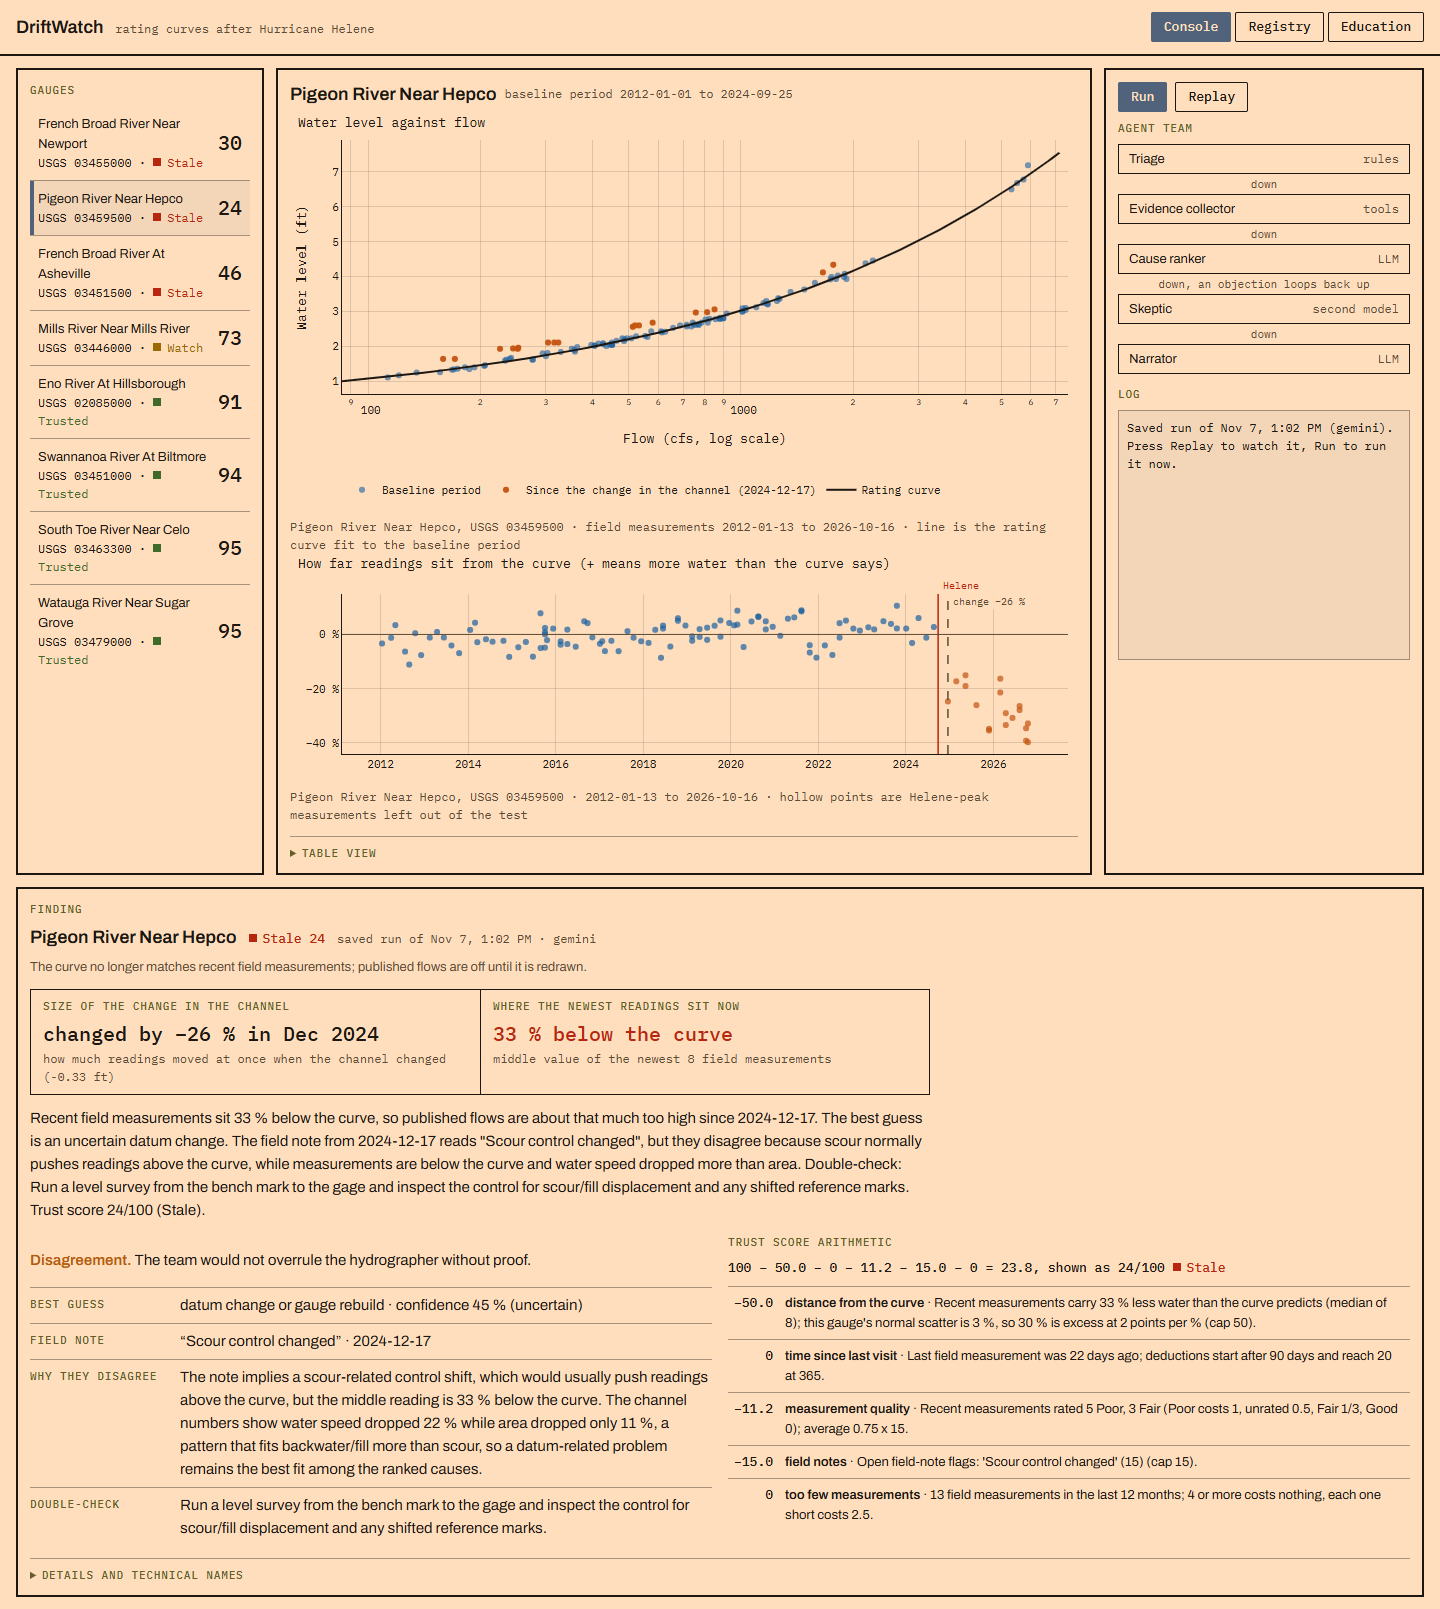
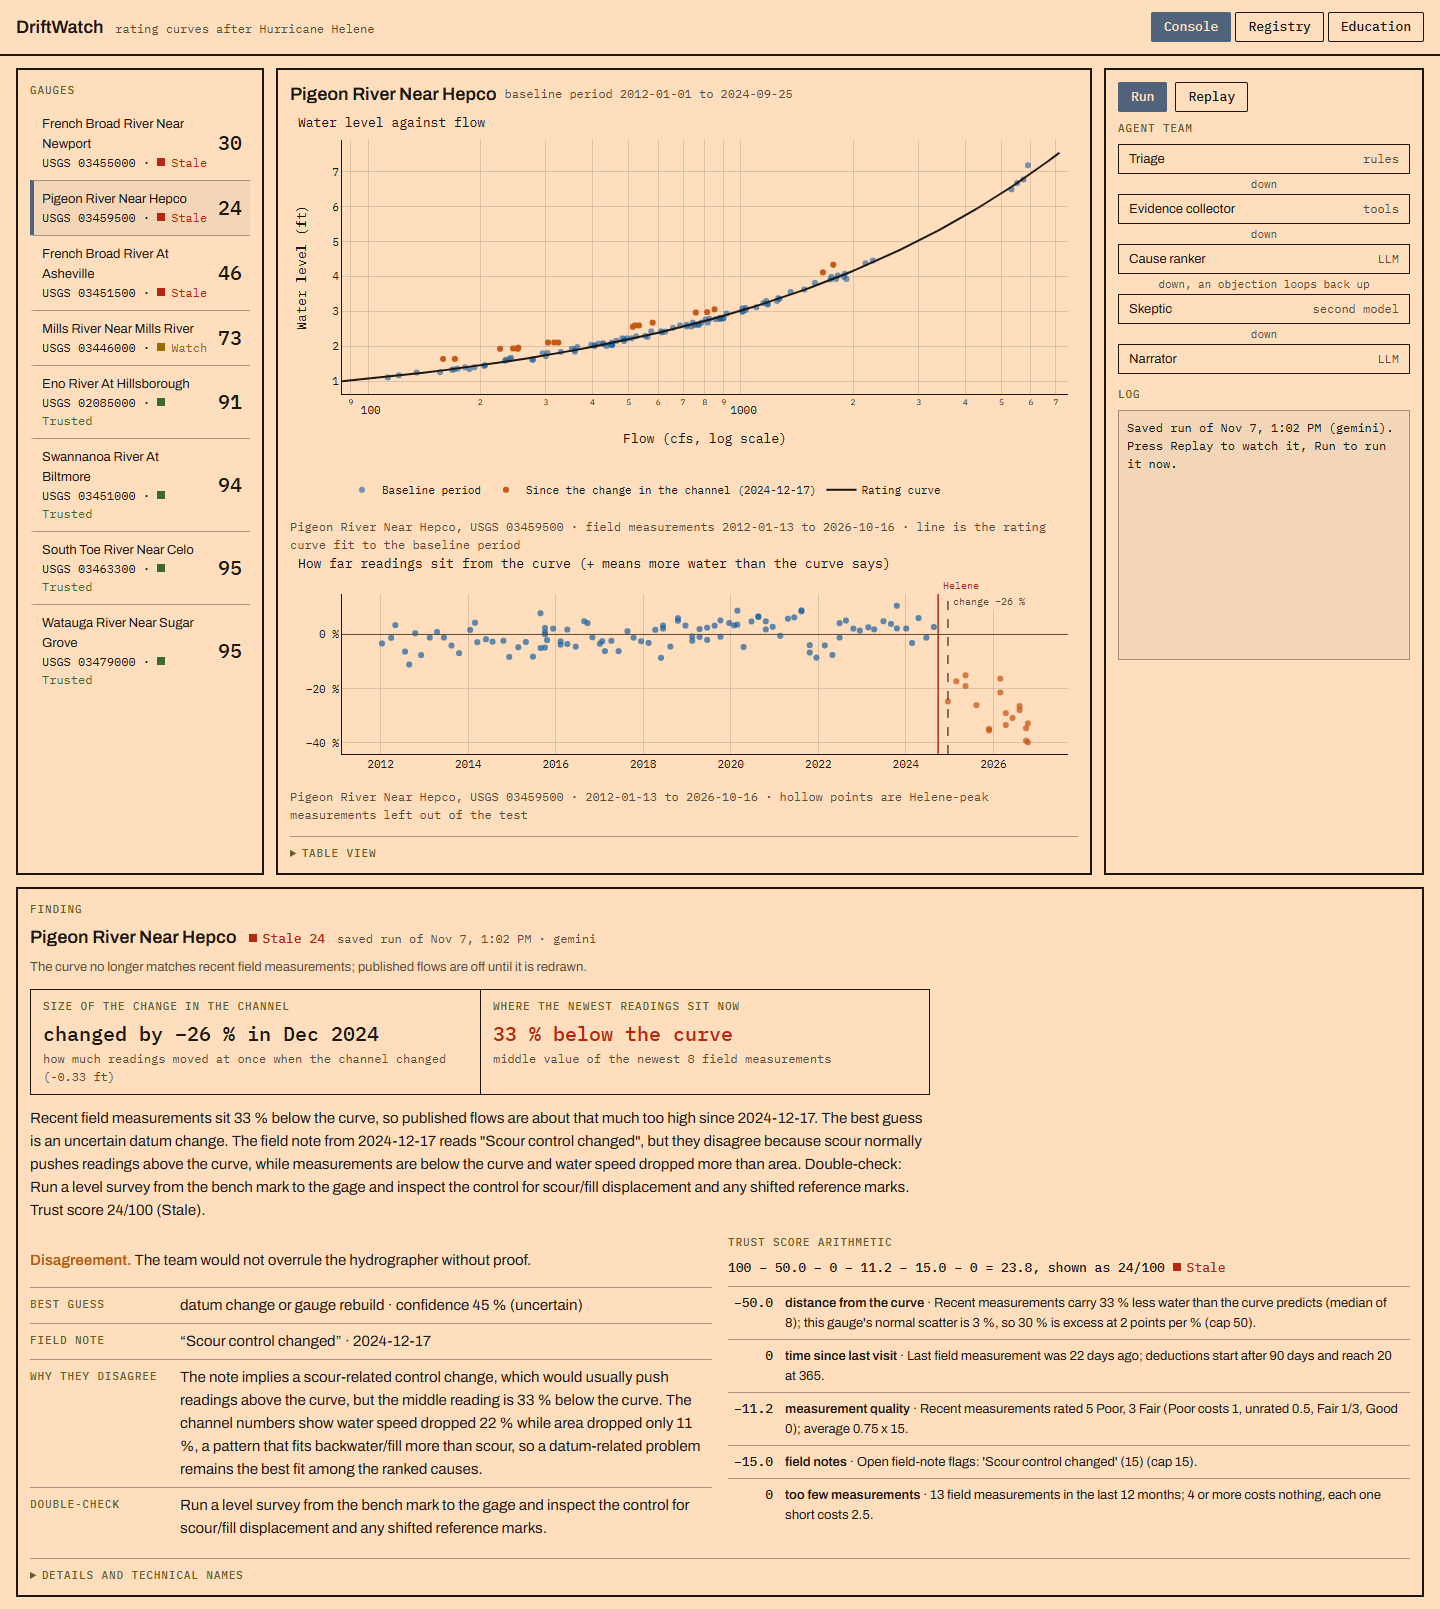
m3-design: review fixes (more plain swaps, selection border, misfit uses trust's recent count) + status

Changed region(s): [[0.0312, 0.0622, 0.1875, 0.4351], [0.125, 0.839, 0.5, 0.9012]]

diff --git a/driftwatch/api/console.html b/driftwatch/api/console.html
@@ -66,7 +66,8 @@ main { display: grid; gap: 12px; padding: 12px 16px;
   font: inherit; color: inherit; cursor: pointer; }
 .gauge:first-child { border-top: 0; }
 .gauge:hover { background: var(--paper-sunk); }
-.gauge.sel { background: var(--paper-sunk); box-shadow: inset 4px 0 0 var(--measured); }
+.gauge { border-left: 4px solid transparent; }
+.gauge.sel { background: var(--paper-sunk); border-left-color: var(--measured); }
 .gauge .nm { flex: 1; min-width: 0; font-size: 13px; line-height: 20px; }
 .gauge .nm small { display: block; font: 12px/18px var(--mono); }
 .gauge .sc { font: 500 20px/24px var(--mono); }
@@ -286,6 +287,10 @@ const PLAIN_SWAPS = [
   [/\bthe rating\b(?! curve)/gi, "the curve"],
   [/\b(below|above) rating\b/gi, "$1 the curve"],
   [/\bvelocity\b/gi, "water speed"],
+  [/\bpost-shift\b/gi, "after the change"],
+  [/\breference window\b/gi, "baseline period"],
+  [/\bshift\b/gi, "change"],
+  // keep last: drops the sign the words already carry
   [/[+−-](\d+ %) (below|above)\b/g, "$1 $2"],  // "-33 % below" says the sign twice
 ];
 const plain = (s) => PLAIN_SWAPS.reduce((t, [re, to]) => t.replace(re, to),

diff --git a/driftwatch/api/app.py b/driftwatch/api/app.py
@@ -170,10 +170,10 @@ def _report(site: str):
 
 MISFIT_PCT = 15.0  # a reference point "misses" the curve when it sits this far off
 MISFIT_SHARE = 0.20  # ... and this share of top-third reference points miss
-NEWEST_N = 8  # newest readings checked for "at low and middle flows"
+NEWEST_N = 8  # default only; the payload passes the trust score's own recent count
 
 
-def high_flow_misfit(points: list[dict[str, Any]]) -> dict[str, Any]:
+def high_flow_misfit(points: list[dict[str, Any]], newest_n: int = NEWEST_N) -> dict[str, Any]:
     """C11.4: does the single-line curve miss the top third of flows in the reference window,
     while the newest readings all sit at low and middle flows? Only then is the caption true."""
     ref = [
@@ -191,7 +191,7 @@ def high_flow_misfit(points: list[dict[str, Any]]) -> dict[str, Any]:
         p
         for p in points
         if p["period"] != "reference" and p["residual_pct"] is not None and not p["excluded"]
-    ][-NEWEST_N:]
+    ][-newest_n:]
     newest_low = bool(newest) and all(p["discharge_cfs"] < cutoff for p in newest)
     out.update(share_off=share, cutoff_cfs=cutoff, show=share >= MISFIT_SHARE and newest_low)
     return out
@@ -234,7 +234,7 @@ def _report_payload(site: str) -> dict[str, Any]:
                 "median_pct": float(np.median(recent)) if recent else None,
                 "n": len(recent),
             },
-            "high_flow_misfit": high_flow_misfit(points),
+            "high_flow_misfit": high_flow_misfit(points, len(recent) or NEWEST_N),
             "points": points,
             "curve": curve,
             "top_shift": json.loads(top.model_dump_json()) if top else None,

diff --git a/docs/m3_design_status.md b/docs/m3_design_status.md
@@ -1,0 +1,65 @@
+---
+status: live
+stage: m3-design (playbook C10 part 2 + C11 items 1, 2, 4, 5)
+date: 2026-11-07
+---
+
+# m3-design status
+
+## Needs Grace
+- **Open the PR** (gh isn't installed on the laptop):
+  https://github.com/inmang13/driftwatch/compare/main...m3-design?expand=1
+- **Your stash on main:** the two modified `reports/03451000.json` and `reports/03459500.json` are in
+  `git stash` as "pre-m3-design reports". `make demo` rewrites those files on every run, which is why
+  they were restored, not committed, on this branch. To get them back: `git checkout main; git stash pop`.
+- **Correction:** I first said the `registry.py:59` ruff error was already gone. That was wrong: I had
+  checked with the global ruff, and the venv ruff (the project's own) does flag it (TRY004). I
+  suppressed it with `# noqa: TRY004` and a reason. I didn't switch to `TypeError`, because every other
+  spec check in that file raises `ValueError`, and changing the type would change what callers catch.
+- **C11.3 trend sentence:** skipped as you asked. Per your note, it gets wired into the stored reports
+  after this branch is merged.
+- **Decide:** the education sketches label the y-axis "residual" (the C10 spec's wording). C11.1 would
+  say "off curve". Changing it is one word in `sketchSVG`.
+
+## Done (all pushed to `origin/m3-design`)
+- Subsection tokens, Archivo + IBM Plex Mono vendored as WOFF2 (`driftwatch/api/static/fonts`, OFL
+  texts included), flat 2 px plates, status colour always paired with a word, Plotly recoloured
+  (series 1 baseline, series 2 after, series 3 in-between; ink curve; signal Helene line; dashed
+  ink-muted change lines; plate-style tooltips). Every chart has a caption naming the gauge and the
+  date range, plus a table view.
+- Plain language (C11.1). Technical names appear only under "Details and technical names". Model text
+  on the card goes through display-only swaps: percents rounded, em dashes become commas, residual →
+  reading, the rating → the curve, velocity → water speed, shift → change, reference window → baseline
+  period. Open causes read "Lead (unconfirmed)".
+- Hepco readouts: "Size of the change in the channel: changed by −26 % in Dec 2024" and "Where the
+  newest readings sit now: 33 % below the curve". Every gauge with a change shows both readouts.
+- Staggered change labels (C11.2), the Mills high-flow caption (C11.4), and the Education tab built
+  from `static/education.json`.
+- `make test` passes (155). `make demo` runs through offline. Smoke test
+  `scripts/console_smoke.py` passes at desktop and phone width: every tab loads, there are no requests
+  to other origins, and there are no page errors. Screenshots are in `docs/images/`.
+
+## Not verified
+- Staggering was checked on one real pair only: Helene and the Hepco Dec 2024 change. Mills's two 2016
+  lines (the playbook's motivating case) were removed by the shift gate, so that case is no longer in
+  the data.
+- The more-than-3-changes hover branch never runs on any snapshot gauge.
+- The plain-word swaps were dry-traced on the known Hepco, Mills and fallback strings. A new live LLM
+  phrasing can still slip through.
+- `scripts/console_smoke.py` needs `pip install playwright` (it is not in pyproject) and a running
+  server. It is not part of `make test`.
+
+## Judgment calls (also in decision_log)
+- Mills caption trigger: ≥ 20 % of baseline points in the top third of flows are > 15 % off the curve,
+  AND all of the newest readings (the same 8 the trust score uses) are below that flow cutoff. Only
+  Mills qualifies. Eno misses more at high flow (66 %), but one of its newest 8 is a high flow, so the
+  caption's "doesn't change the verdict" sentence would be false there.
+- The fallback narrator's one em dash became a comma (`agents/fallbacks.py`). The text is otherwise
+  unchanged.
+
+## Review (/code-review) leftovers, not fixed
+- `high_flow_misfit` is domain logic that lives in `api/app.py`, because `rating_curve/` was
+  off-limits this session. Move it there after the freeze.
+- The readout box and the agent-graph nodes are 1 px boxes inside 2 px plates. A strict reading of
+  "no nested cards" would flag them.
+- Small off-scale type: 8 px in the sketch labels and 10 px in the chart annotations.
